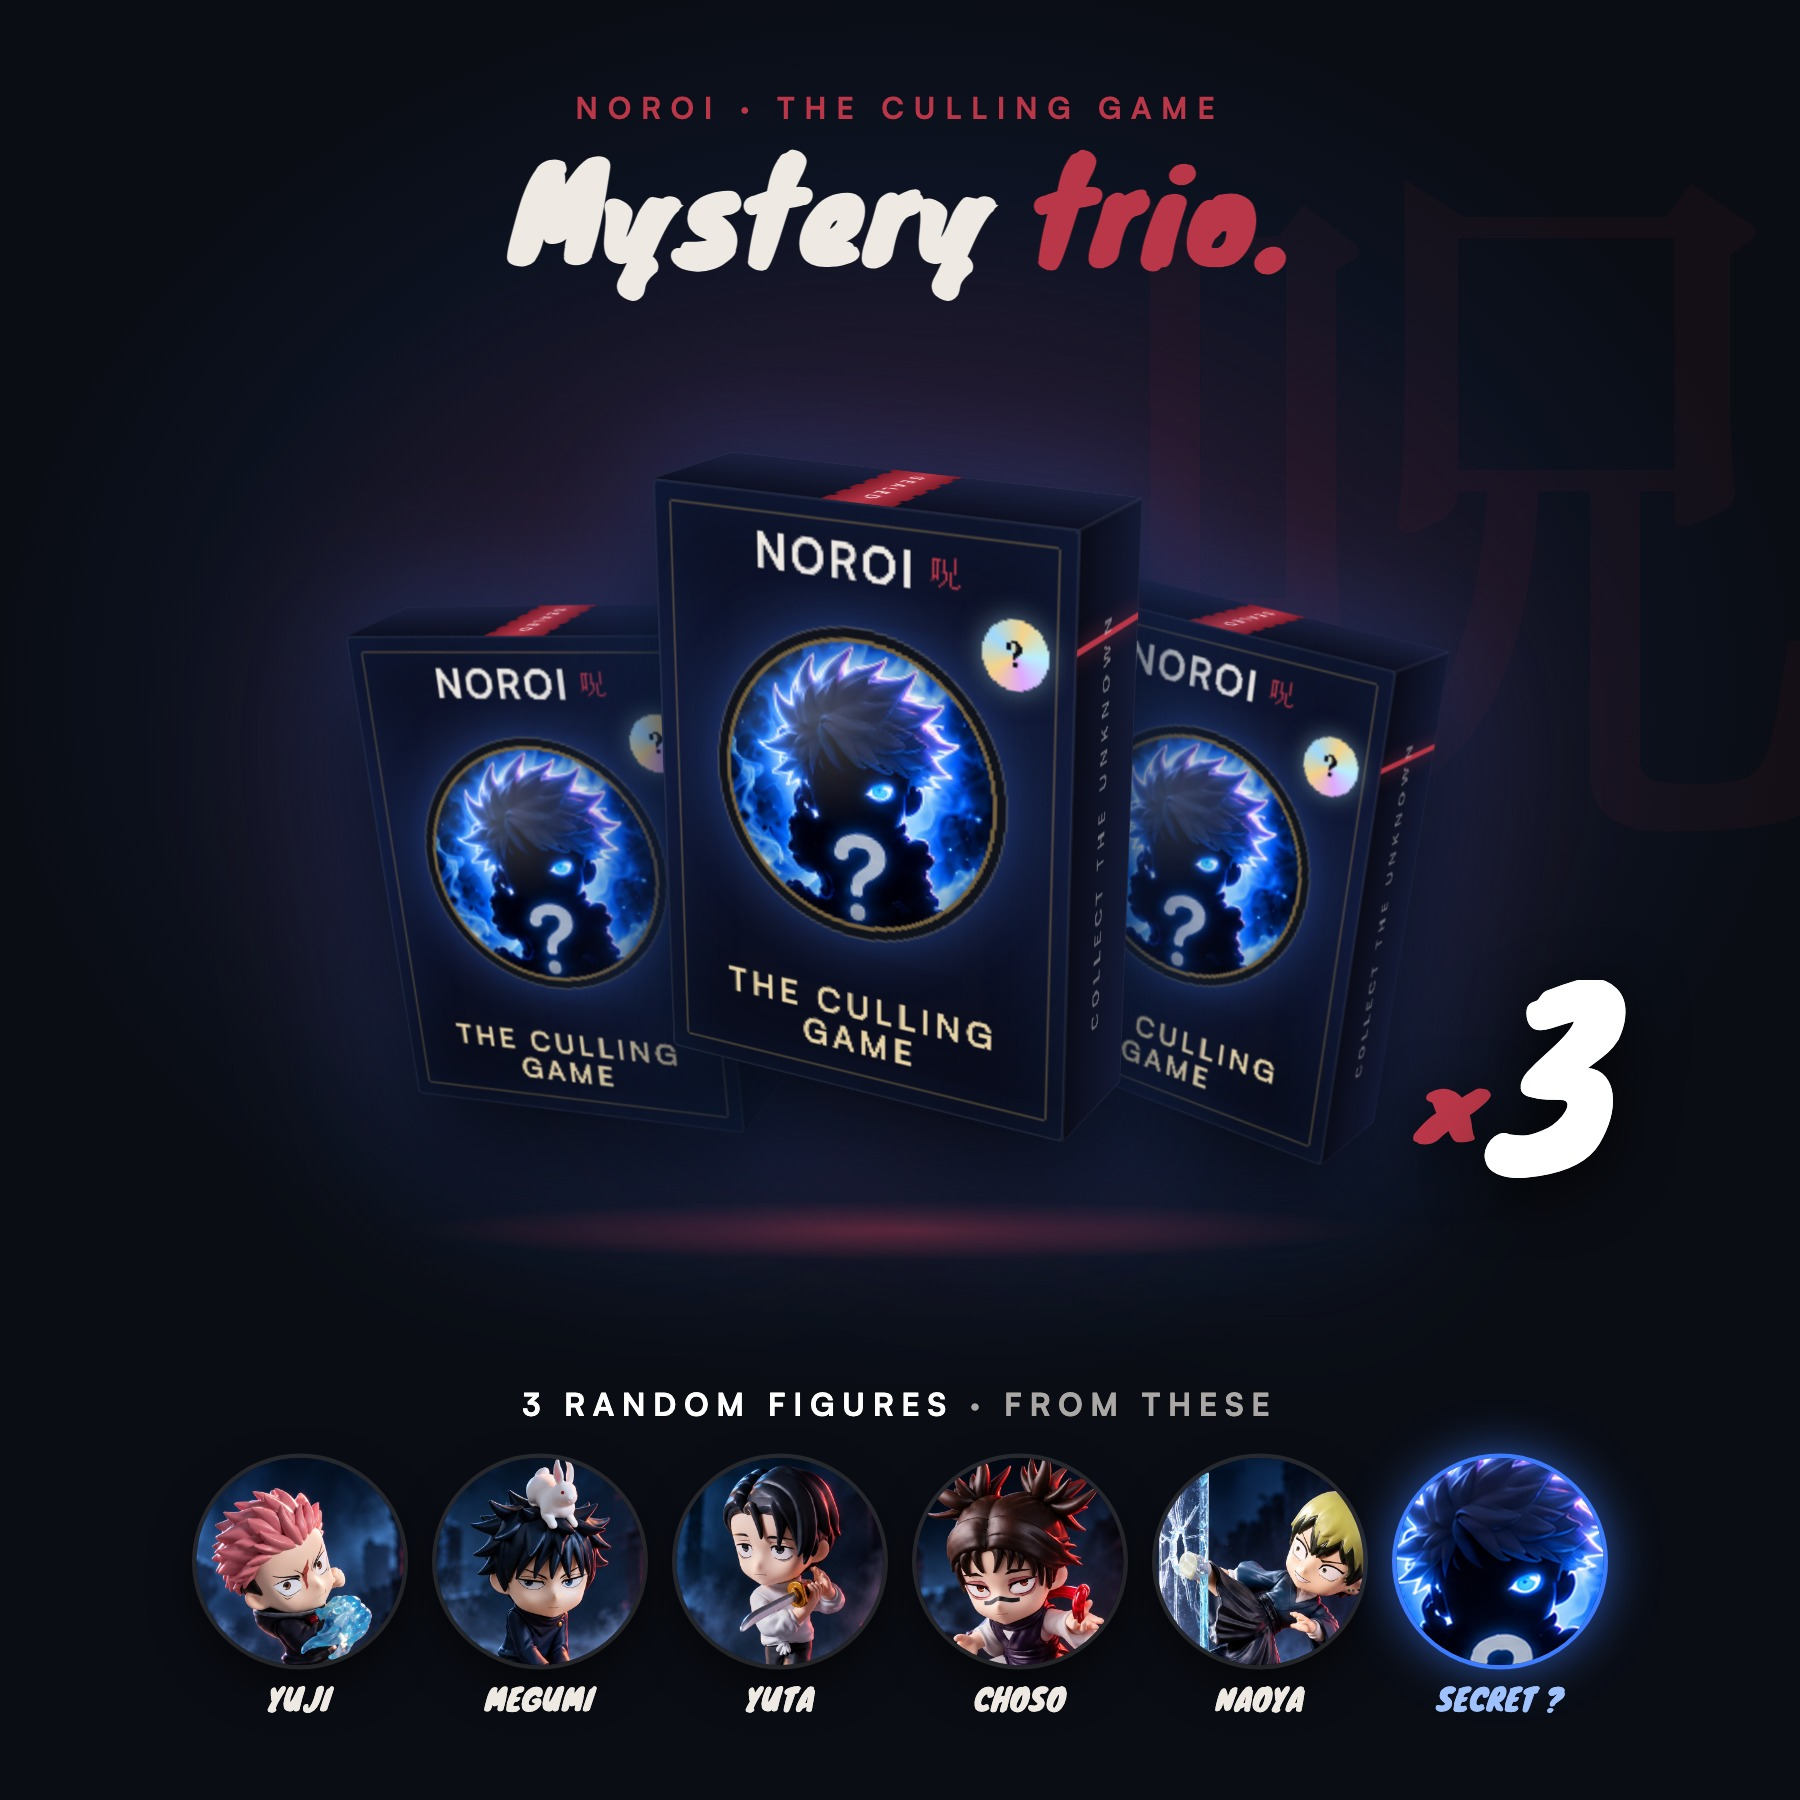
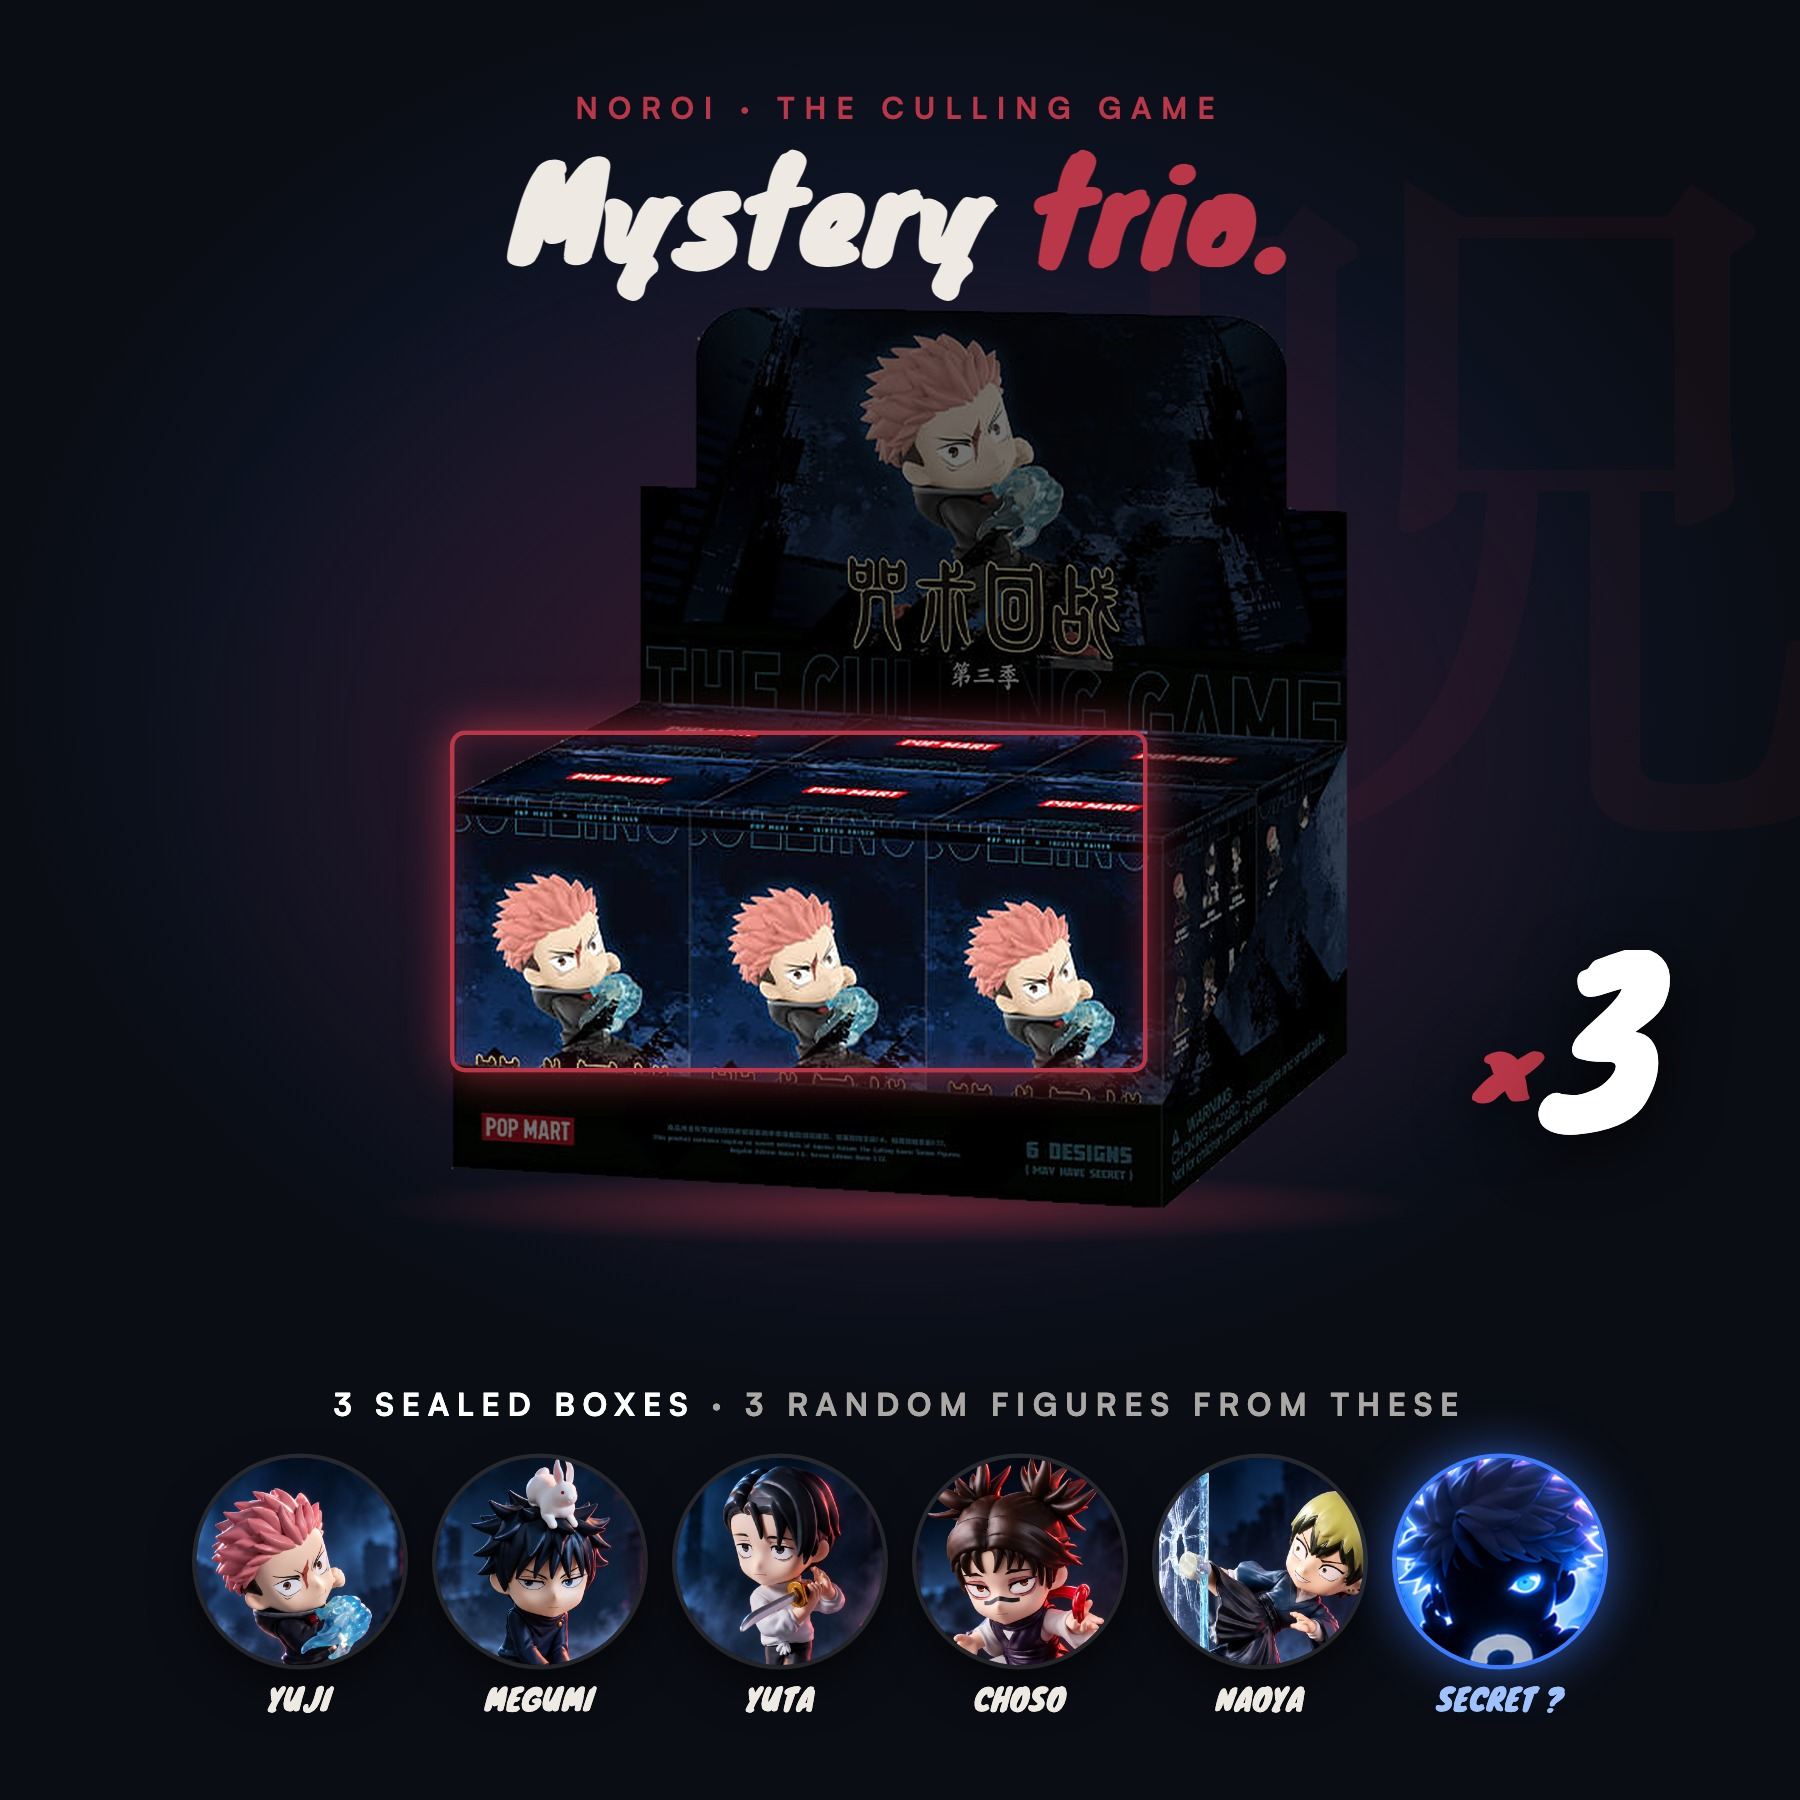
Pack visuals built on the real POP MART display (bought boxes highlighted); darker size-guide figure

diff --git a/assets/noroi.css b/assets/noroi.css
@@ -1152,3 +1152,7 @@ body { -webkit-font-smoothing: antialiased; -moz-osx-font-smoothing: grayscale; 
 .size__figure { isolation: isolate; }
 .offer__media--pack { aspect-ratio: 1; }
 .offer__media--pack::after { display: none; }
+/* Size guide figure: moodier, closer to the campaign lighting */
+.size__figure img { filter: brightness(.72) contrast(1.12) saturate(.85) drop-shadow(-6px 0 12px rgba(var(--c-accent-rgb), .35)) drop-shadow(5px 0 12px rgba(var(--c-aura-rgb), .25)) drop-shadow(0 22px 22px rgba(0,0,0,.85)) !important; }
+.size__figure::before { opacity: .55; animation: none; }
+.size__figure::after { content: ''; position: absolute; inset: 0; pointer-events: none; background: linear-gradient(180deg, transparent 55%, rgba(10,13,20,.35)); -webkit-mask: url('noroi-size-figure.png') center / contain no-repeat; mask: url('noroi-size-figure.png') center / contain no-repeat; }
